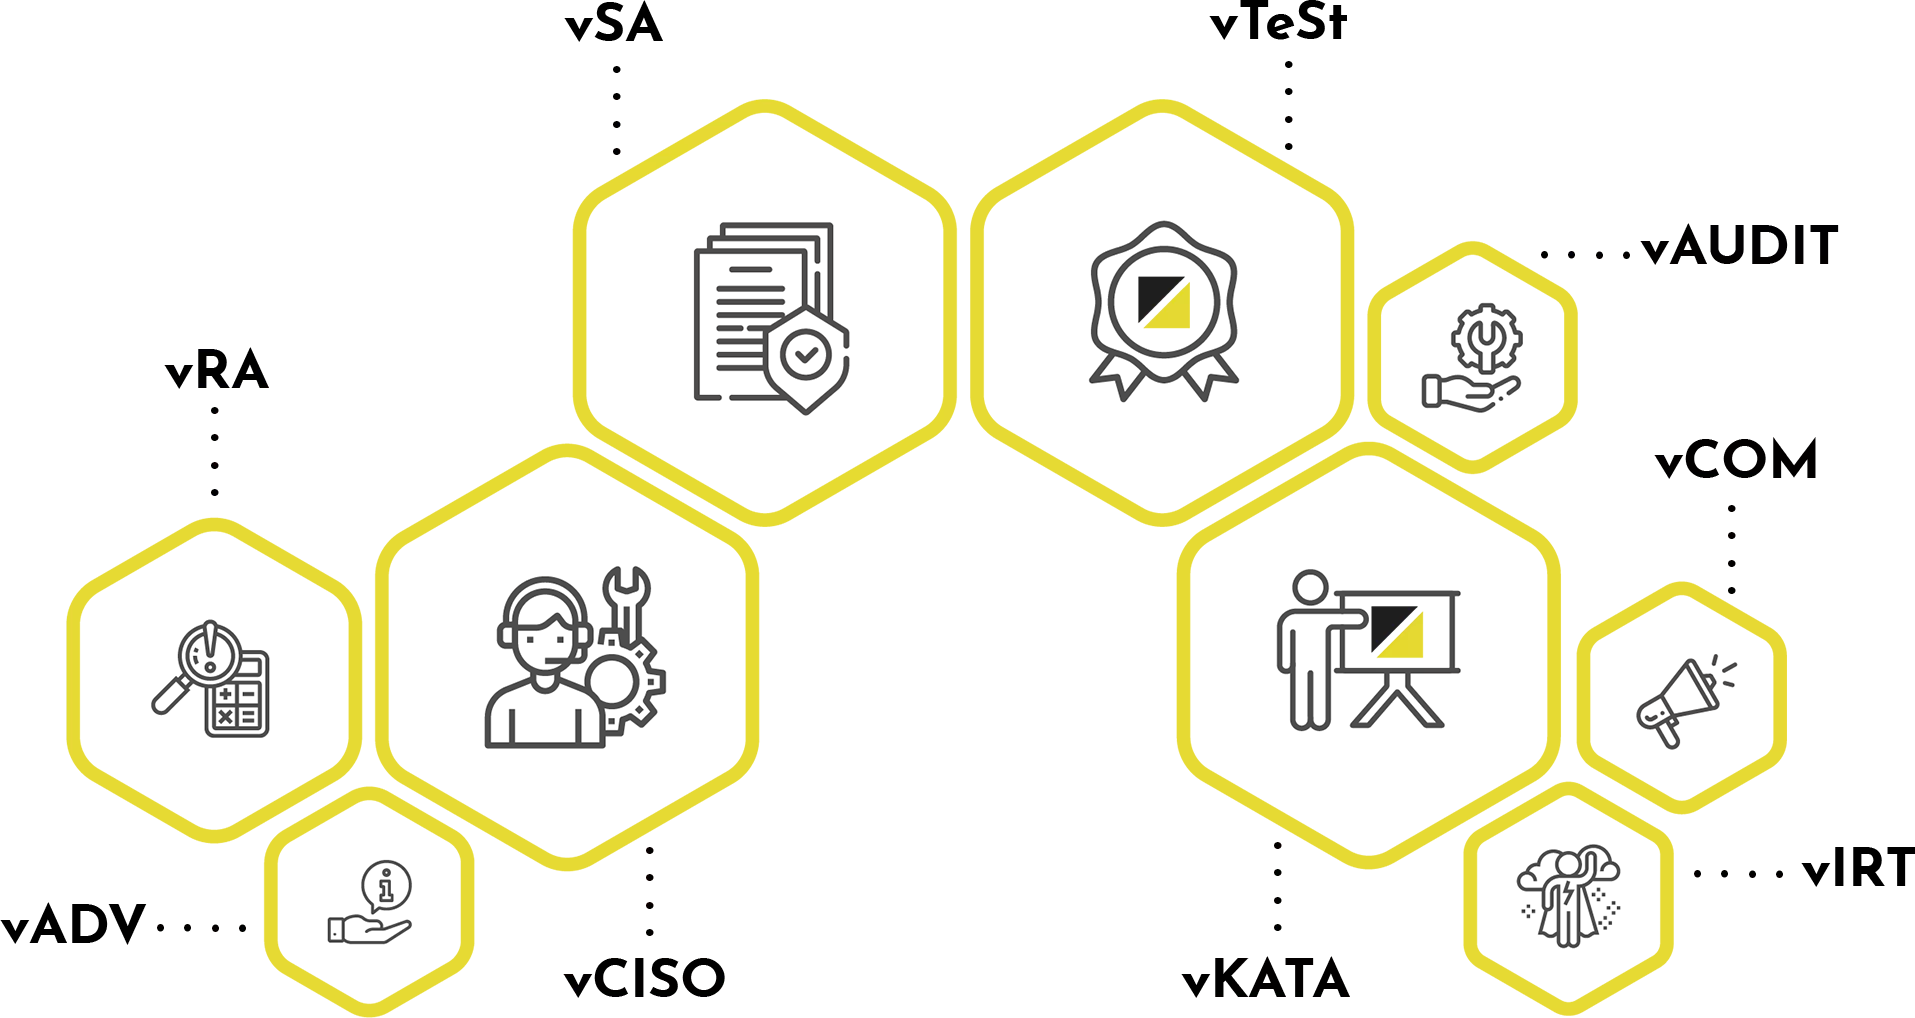
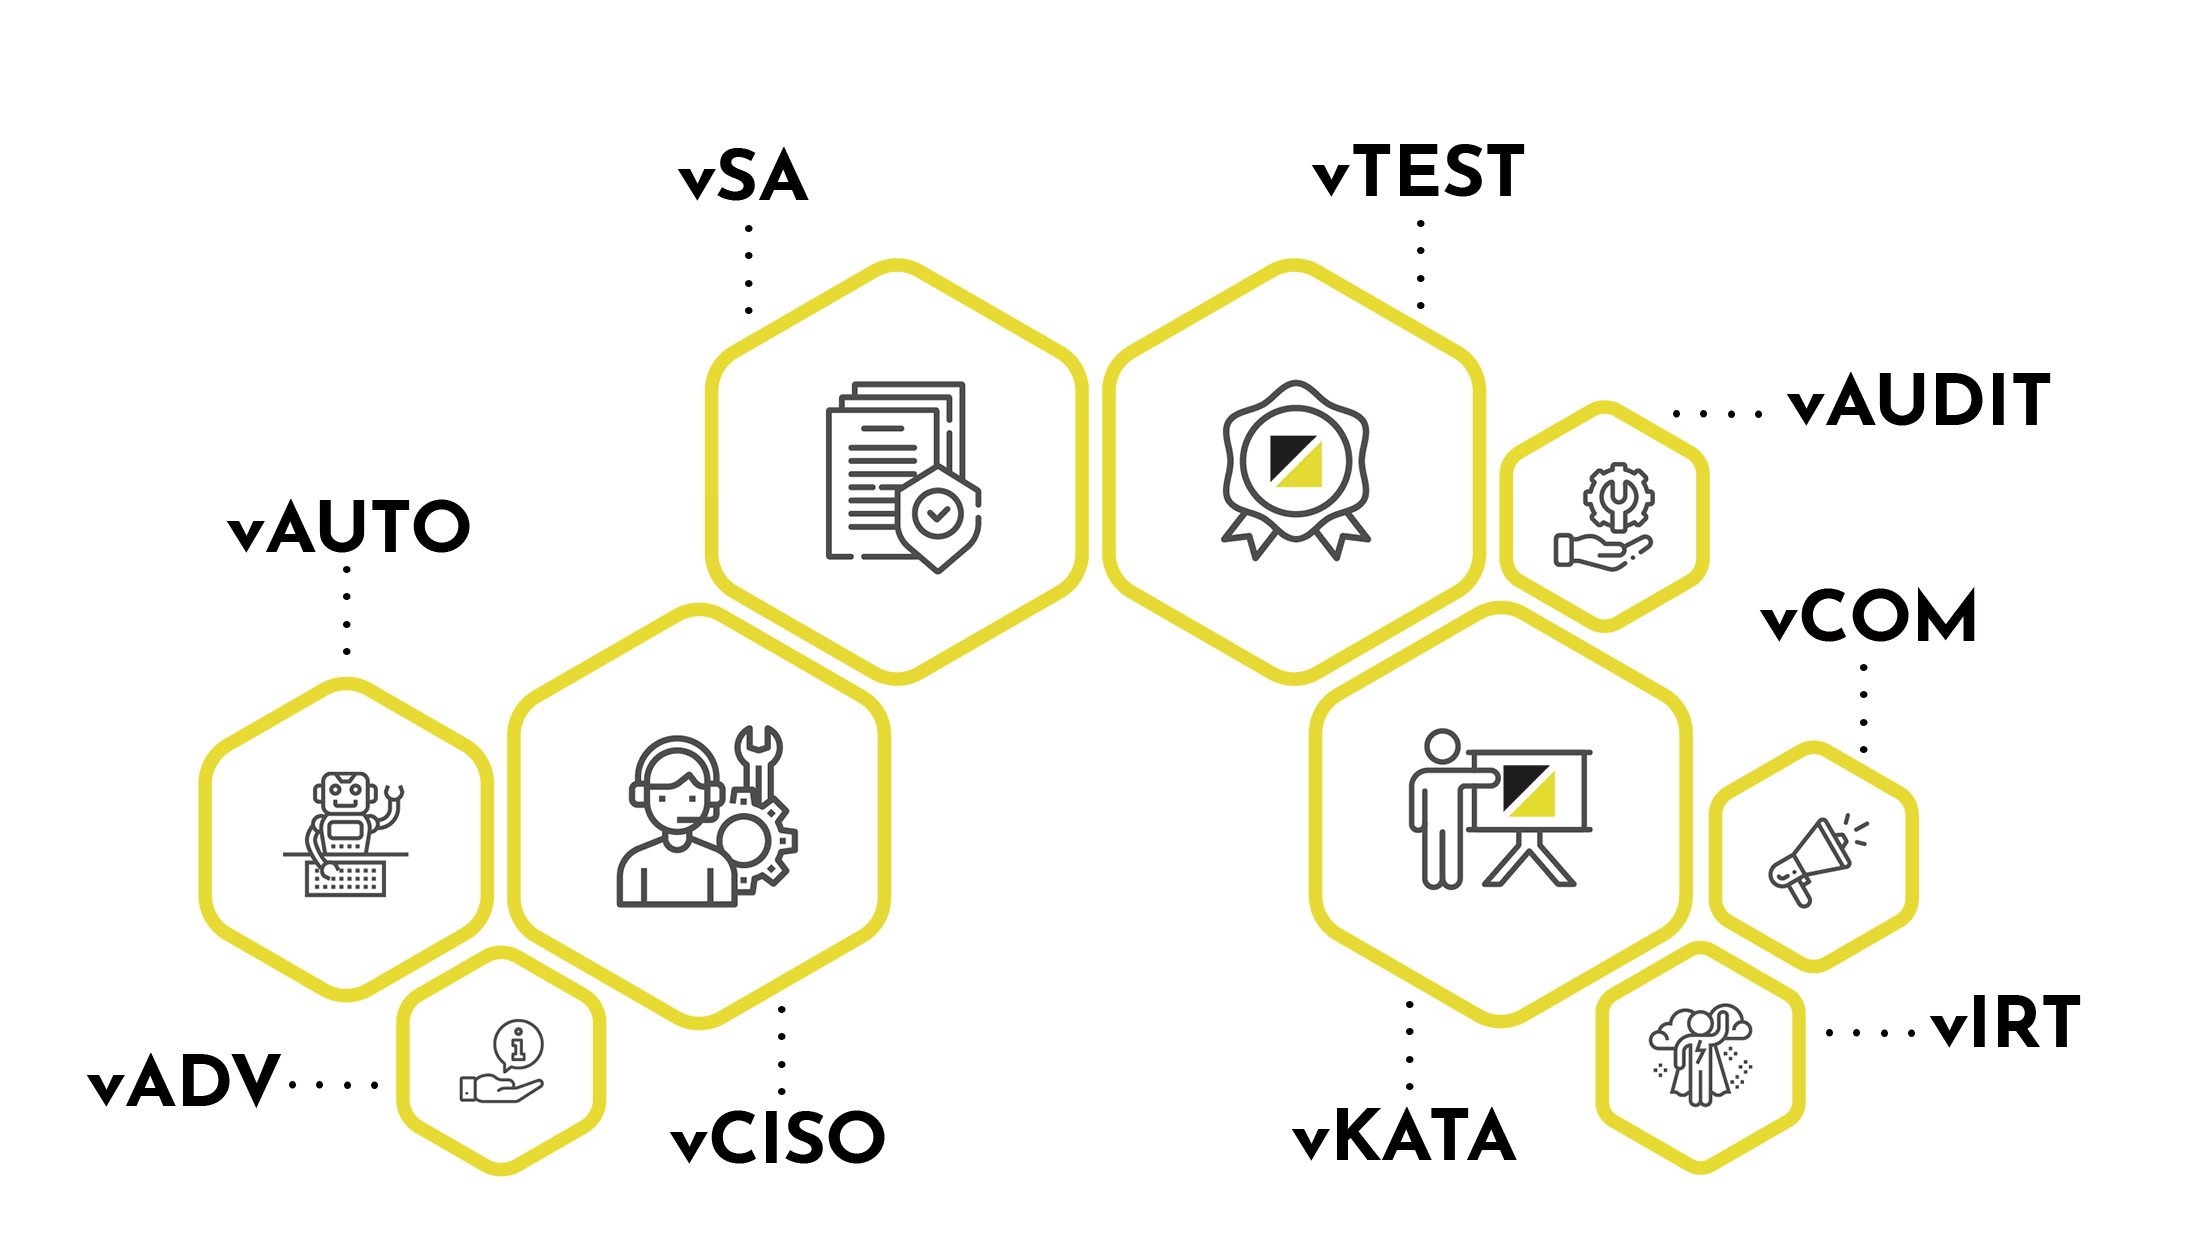
update

diff --git a/what/index.html b/what/index.html
@@ -64,8 +64,8 @@
 <a class=dropdown-item href=/what/#audit>Audit</a>
 <a class=dropdown-item href=/what/#ciso>CISO</a>
 <a class=dropdown-item href=/what/#comunicazione>Comunicazione</a>
+<a class=dropdown-item href=/what/#devsecops>DevSecOps</a>
 <a class=dropdown-item href=/what/#incident-response>Incident Response</a>
-<a class=dropdown-item href=/what/#risk-assessment>Risk Assessment</a>
 <a class=dropdown-item href=/what/#security-assessment>Security Assessment</a>
 <a class=dropdown-item href=/what/#security-test>Security Test</a>
 </div>
@@ -103,8 +103,8 @@
 <area shape=circle coords=1473,351,100 alt=Audit href=/what/#audit>
 <area shape=circle coords=568,655,180 alt=CISO href=/what/#ciso>
 <area shape=circle coords=1686,696,100 alt=Comunicazione href=/what/#comunicazione>
+<area shape=circle coords=224,684,140 alt=DevSecOps href=/what/#devsecops>
 <area shape=circle coords=1570,898,100 alt="Incident Response" href=/what/#incident-response>
-<area shape=circle coords=224,684,140 alt="Risk Assessment" href=/what/#risk-assessment>
 <area shape=circle coords=768,317,180 alt="Security Assessment" href=/what/#security-assessment>
 <area shape=circle coords=1164,304,180 alt="Security Test" href=/what/#security-test>
 </map>
@@ -219,8 +219,30 @@
 </div>
 </div>
 </section>
-<a name=incident-response></a>
+<a name=devsecops></a>
 <section class="bg-light service">
+<div class=container>
+<div class=row>
+<div class="col-12 col-lg-3 align-self-center">
+<h2>vAUTO</h2>
+<div class="icon d-print-none"><img class="img-fluid w-100" src=/images/vAUTO.webp></div>
+</div>
+<div class="col-12 col-lg-9">
+<h3><a name=devsecops>DevSecOps</a></h3>
+<p><p>DevSecOps significa spostarsi da una logica reattiva, tipica del classico controllo di qualità, ad una logica preventiva. Il cosiddetto &ldquo;shift left model&rdquo; prevede di aumentare l&rsquo;attenzione alla qualità maggiormente nelle fasi iniziali del progetto, riducendone i costi operativi mediante:</p>
+<ul>
+<li>analisi dei processi;</li>
+<li>integrazione delle basi dati;</li>
+<li>automazione di task e controlli operativi.</li>
+</ul>
+<p>Il team <strong>VERSIVO</strong> affianca i propri clienti analizzando i processi organizzativi, sviluppando integrazioni e automazioni abbassando il costo operativo dell&rsquo;infrastruttura IT.</p>
+</p>
+</div>
+</div>
+</div>
+</section>
+<a name=incident-response></a>
+<section class="bg-secondary service">
 <div class=container>
 <div class=row>
 <div class="col-12 col-lg-3 align-self-center">
@@ -236,23 +258,6 @@
 <li>effettuare l&rsquo;analisi post-mortem inserita in un processo di miglioramento continuo.</li>
 </ul>
 <p>Il team <strong>VERSIVO</strong> dispone di figure professionali in grado di fornire un supporto completo nelle situazioni di crisi, includendo procedure, strumenti e persone. VERSIVO affianca inoltre i clienti per istituire un team interno di Incident Response, preparando procedure, adeguando strumenti e addestrando il personale su simulazioni realistiche.</p>
-</p>
-</div>
-</div>
-</div>
-</section>
-<a name=risk-assessment></a>
-<section class="bg-secondary service">
-<div class=container>
-<div class=row>
-<div class="col-12 col-lg-3 align-self-center">
-<h2>vRA</h2>
-<div class="icon d-print-none"><img class="img-fluid w-100" src=/images/vRA.webp></div>
-</div>
-<div class="col-12 col-lg-9">
-<h3><a name=risk-assessment>Risk Assessment</a></h3>
-<p><p>L&rsquo;introduzione di dispositivi, la modifica architetturale dei sistemi informativi dei clienti o l&rsquo;analisi di report di sicurezza (VA/WAPT/PT) richiede un&rsquo;analisi del rischio per comprendere come questo impatti sulla sicurezza. L&rsquo;analisi aiuta a identificare le aree più critiche, sulle quali condurre azioni mirate per la mitigazione dei rischi derivanti da eventi di tipo Cyber, mantenendo una corretta proporzione tra libertà e sicurezza.</p>
-<p>Nell&rsquo;ambito del servizio vCISO, <strong>VERSIVO</strong> mette a disposizione i suoi esperti nel caso i clienti abbiano una specifica necessità non gestibile autonomamente (per mancanza di risorse, per mancanza di specifiche competenze IT, ICS/OT, IoT, &mldr;).</p>
 </p>
 </div>
 </div>

diff --git a/what/devsecops/index.html b/what/devsecops/index.html
@@ -1,15 +1,15 @@
 <!doctype html><html lang=it>
 <head>
-<title>VERSIVO | Active Cyber Defense > Risk Assessment</title>
+<title>VERSIVO | Active Cyber Defense > DevSecOps</title>
 <meta charset=utf-8>
 <meta name=author content="VERSIVO">
-<meta name=description content="L&rsquo;introduzione di dispositivi, la modifica architetturale dei sistemi informativi dei clienti o l&rsquo;analisi di report di sicurezza (VA/WAPT/PT) richiede un&rsquo;analisi del rischio per comprendere come questo impatti sulla sicurezza. L&rsquo;analisi aiuta a identificare le aree più critiche, sulle quali condurre azioni mirate per la mitigazione dei rischi derivanti da eventi di tipo Cyber, mantenendo una corretta proporzione tra libertà e sicurezza.">
+<meta name=description content="DevSecOps significa spostarsi da una logica reattiva, tipica del classico controllo di qualità, ad una logica preventiva. Il cosiddetto &ldquo;shift left model&rdquo; prevede di aumentare l&rsquo;attenzione alla qualità maggiormente nelle fasi iniziali del progetto, riducendone i costi operativi mediante:">
 <meta name=generator content="VERSIVO">
 <meta name=robots content="noimageindex">
-<meta property="og:title" content="Risk Assessment">
-<meta property="og:description" content="L&rsquo;introduzione di dispositivi, la modifica architetturale dei sistemi informativi dei clienti o l&rsquo;analisi di report di sicurezza (VA/WAPT/PT) richiede un&rsquo;analisi del rischio per comprendere come questo impatti sulla sicurezza. L&rsquo;analisi aiuta a identificare le aree più critiche, sulle quali condurre azioni mirate per la mitigazione dei rischi derivanti da eventi di tipo Cyber, mantenendo una corretta proporzione tra libertà e sicurezza.">
+<meta property="og:title" content="DevSecOps">
+<meta property="og:description" content="DevSecOps significa spostarsi da una logica reattiva, tipica del classico controllo di qualità, ad una logica preventiva. Il cosiddetto &ldquo;shift left model&rdquo; prevede di aumentare l&rsquo;attenzione alla qualità maggiormente nelle fasi iniziali del progetto, riducendone i costi operativi mediante:">
 <meta property="og:type" content="article">
-<meta property="og:url" content="https://www.versivo.it/what/risk-assessment/"><meta property="og:image" content="https://www.versivo.it/images/default-ogimage.png"><meta property="article:section" content="what">
+<meta property="og:url" content="https://www.versivo.it/what/devsecops/"><meta property="og:image" content="https://www.versivo.it/images/default-ogimage.png"><meta property="article:section" content="what">
 <meta property="og:site_name" content="VERSIVO | Active Cyber Defense">
 <meta name=viewport content="width=device-width,initial-scale=1">
 <link rel="shortcut icon" type=image/x-icon href=/favicon.ico>
@@ -65,8 +65,8 @@
 <a class=dropdown-item href=/what/#audit>Audit</a>
 <a class=dropdown-item href=/what/#ciso>CISO</a>
 <a class=dropdown-item href=/what/#comunicazione>Comunicazione</a>
+<a class=dropdown-item href=/what/#devsecops>DevSecOps</a>
 <a class=dropdown-item href=/what/#incident-response>Incident Response</a>
-<a class=dropdown-item href=/what/#risk-assessment>Risk Assessment</a>
 <a class=dropdown-item href=/what/#security-assessment>Security Assessment</a>
 <a class=dropdown-item href=/what/#security-test>Security Test</a>
 </div>
@@ -87,7 +87,7 @@
 <div class=jumbotron>
 <div class=row>
 <div class=col-12>
-<h1>Risk Assessment</h1>
+<h1>DevSecOps</h1>
 </div>
 </div>
 </div>

diff --git a/how/knowledge-of-the-enemy/index.html b/how/knowledge-of-the-enemy/index.html
@@ -67,8 +67,8 @@ Tutti gli attacchi informatici basano il loro successo sulla quantità di inform
 <a class=dropdown-item href=/what/#audit>Audit</a>
 <a class=dropdown-item href=/what/#ciso>CISO</a>
 <a class=dropdown-item href=/what/#comunicazione>Comunicazione</a>
+<a class=dropdown-item href=/what/#devsecops>DevSecOps</a>
 <a class=dropdown-item href=/what/#incident-response>Incident Response</a>
-<a class=dropdown-item href=/what/#risk-assessment>Risk Assessment</a>
 <a class=dropdown-item href=/what/#security-assessment>Security Assessment</a>
 <a class=dropdown-item href=/what/#security-test>Security Test</a>
 </div>

diff --git a/how/self-knowledge/index.html b/how/self-knowledge/index.html
@@ -67,8 +67,8 @@ La tecnologia è un distrattivo: essa è disponibile ampiamente e se abusata ris
 <a class=dropdown-item href=/what/#audit>Audit</a>
 <a class=dropdown-item href=/what/#ciso>CISO</a>
 <a class=dropdown-item href=/what/#comunicazione>Comunicazione</a>
+<a class=dropdown-item href=/what/#devsecops>DevSecOps</a>
 <a class=dropdown-item href=/what/#incident-response>Incident Response</a>
-<a class=dropdown-item href=/what/#risk-assessment>Risk Assessment</a>
 <a class=dropdown-item href=/what/#security-assessment>Security Assessment</a>
 <a class=dropdown-item href=/what/#security-test>Security Test</a>
 </div>

diff --git a/how/index.html b/how/index.html
@@ -65,8 +65,8 @@ Sun Tzu, L&rsquo;Arte della Guerra">
 <a class=dropdown-item href=/what/#audit>Audit</a>
 <a class=dropdown-item href=/what/#ciso>CISO</a>
 <a class=dropdown-item href=/what/#comunicazione>Comunicazione</a>
+<a class=dropdown-item href=/what/#devsecops>DevSecOps</a>
 <a class=dropdown-item href=/what/#incident-response>Incident Response</a>
-<a class=dropdown-item href=/what/#risk-assessment>Risk Assessment</a>
 <a class=dropdown-item href=/what/#security-assessment>Security Assessment</a>
 <a class=dropdown-item href=/what/#security-test>Security Test</a>
 </div>

diff --git a/404.html b/404.html
@@ -64,8 +64,8 @@
 <a class=dropdown-item href=/what/#audit>Audit</a>
 <a class=dropdown-item href=/what/#ciso>CISO</a>
 <a class=dropdown-item href=/what/#comunicazione>Comunicazione</a>
+<a class=dropdown-item href=/what/#devsecops>DevSecOps</a>
 <a class=dropdown-item href=/what/#incident-response>Incident Response</a>
-<a class=dropdown-item href=/what/#risk-assessment>Risk Assessment</a>
 <a class=dropdown-item href=/what/#security-assessment>Security Assessment</a>
 <a class=dropdown-item href=/what/#security-test>Security Test</a>
 </div>

diff --git a/contact-us/index.html b/contact-us/index.html
@@ -64,8 +64,8 @@
 <a class=dropdown-item href=/what/#audit>Audit</a>
 <a class=dropdown-item href=/what/#ciso>CISO</a>
 <a class=dropdown-item href=/what/#comunicazione>Comunicazione</a>
+<a class=dropdown-item href=/what/#devsecops>DevSecOps</a>
 <a class=dropdown-item href=/what/#incident-response>Incident Response</a>
-<a class=dropdown-item href=/what/#risk-assessment>Risk Assessment</a>
 <a class=dropdown-item href=/what/#security-assessment>Security Assessment</a>
 <a class=dropdown-item href=/what/#security-test>Security Test</a>
 </div>

diff --git a/how/knowledge-of-the-context/index.html b/how/knowledge-of-the-context/index.html
@@ -65,8 +65,8 @@
 <a class=dropdown-item href=/what/#audit>Audit</a>
 <a class=dropdown-item href=/what/#ciso>CISO</a>
 <a class=dropdown-item href=/what/#comunicazione>Comunicazione</a>
+<a class=dropdown-item href=/what/#devsecops>DevSecOps</a>
 <a class=dropdown-item href=/what/#incident-response>Incident Response</a>
-<a class=dropdown-item href=/what/#risk-assessment>Risk Assessment</a>
 <a class=dropdown-item href=/what/#security-assessment>Security Assessment</a>
 <a class=dropdown-item href=/what/#security-test>Security Test</a>
 </div>

diff --git a/how/the-pillars/index.html b/how/the-pillars/index.html
@@ -65,8 +65,8 @@
 <a class=dropdown-item href=/what/#audit>Audit</a>
 <a class=dropdown-item href=/what/#ciso>CISO</a>
 <a class=dropdown-item href=/what/#comunicazione>Comunicazione</a>
+<a class=dropdown-item href=/what/#devsecops>DevSecOps</a>
 <a class=dropdown-item href=/what/#incident-response>Incident Response</a>
-<a class=dropdown-item href=/what/#risk-assessment>Risk Assessment</a>
 <a class=dropdown-item href=/what/#security-assessment>Security Assessment</a>
 <a class=dropdown-item href=/what/#security-test>Security Test</a>
 </div>

diff --git a/index.html b/index.html
@@ -64,8 +64,8 @@
 <a class=dropdown-item href=/what/#audit>Audit</a>
 <a class=dropdown-item href=/what/#ciso>CISO</a>
 <a class=dropdown-item href=/what/#comunicazione>Comunicazione</a>
+<a class=dropdown-item href=/what/#devsecops>DevSecOps</a>
 <a class=dropdown-item href=/what/#incident-response>Incident Response</a>
-<a class=dropdown-item href=/what/#risk-assessment>Risk Assessment</a>
 <a class=dropdown-item href=/what/#security-assessment>Security Assessment</a>
 <a class=dropdown-item href=/what/#security-test>Security Test</a>
 </div>

diff --git a/scenario/index.html b/scenario/index.html
@@ -64,8 +64,8 @@
 <a class=dropdown-item href=/what/#audit>Audit</a>
 <a class=dropdown-item href=/what/#ciso>CISO</a>
 <a class=dropdown-item href=/what/#comunicazione>Comunicazione</a>
+<a class=dropdown-item href=/what/#devsecops>DevSecOps</a>
 <a class=dropdown-item href=/what/#incident-response>Incident Response</a>
-<a class=dropdown-item href=/what/#risk-assessment>Risk Assessment</a>
 <a class=dropdown-item href=/what/#security-assessment>Security Assessment</a>
 <a class=dropdown-item href=/what/#security-test>Security Test</a>
 </div>

diff --git a/what/advisor/index.html b/what/advisor/index.html
@@ -67,8 +67,8 @@
 <a class=dropdown-item href=/what/#audit>Audit</a>
 <a class=dropdown-item href=/what/#ciso>CISO</a>
 <a class=dropdown-item href=/what/#comunicazione>Comunicazione</a>
+<a class=dropdown-item href=/what/#devsecops>DevSecOps</a>
 <a class=dropdown-item href=/what/#incident-response>Incident Response</a>
-<a class=dropdown-item href=/what/#risk-assessment>Risk Assessment</a>
 <a class=dropdown-item href=/what/#security-assessment>Security Assessment</a>
 <a class=dropdown-item href=/what/#security-test>Security Test</a>
 </div>
